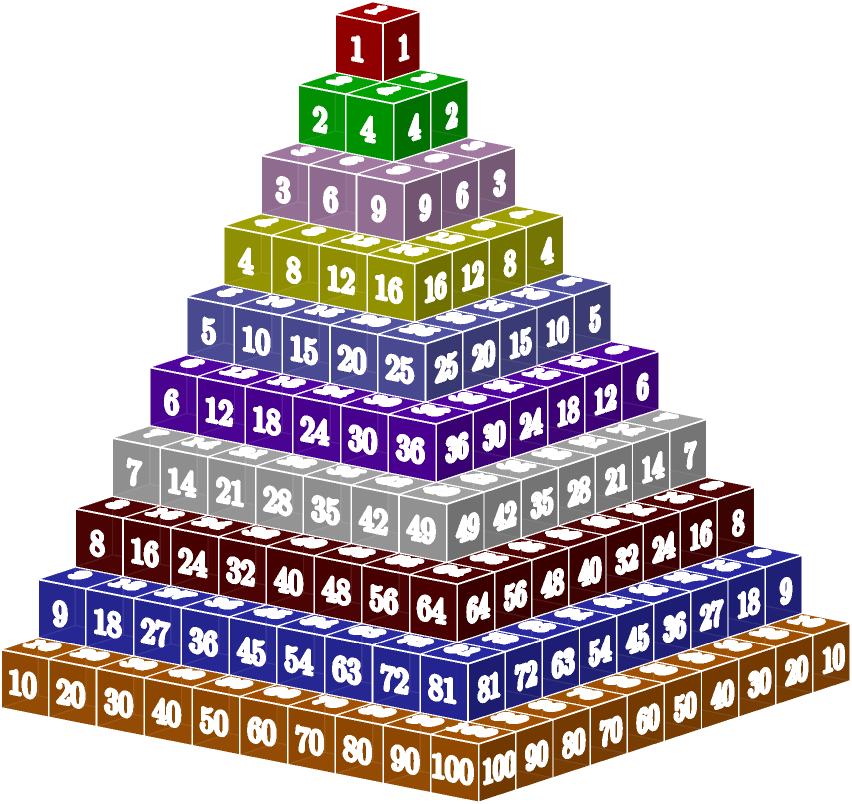
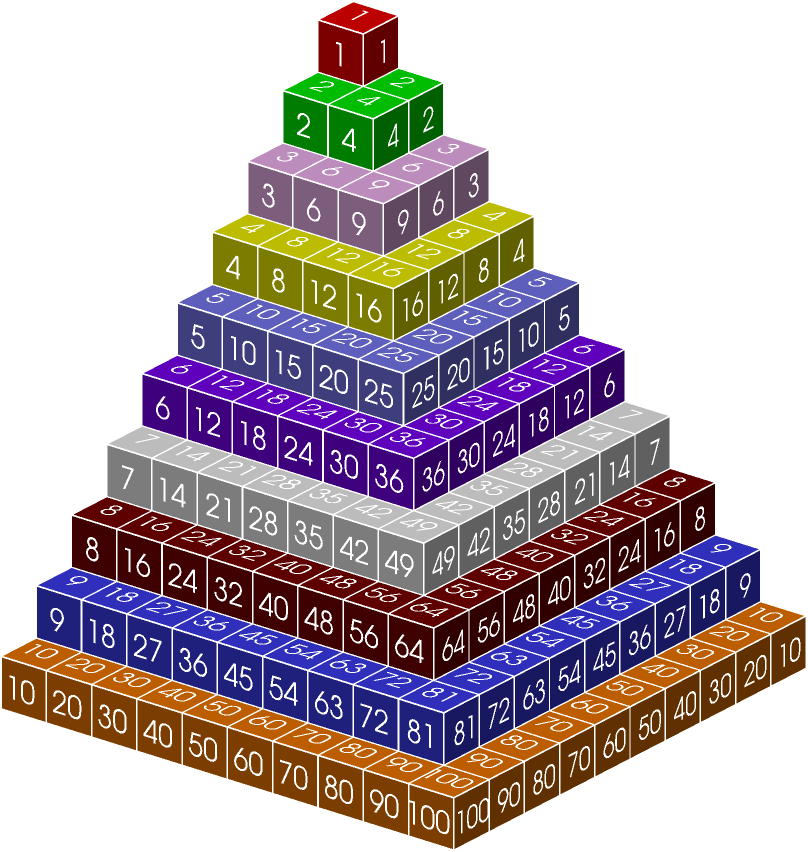
Change numbers and separate planes in multiplication table

diff --git a/_posts/2021-01-23-multiplication.md b/_posts/2021-01-23-multiplication.md
@@ -16,18 +16,23 @@ present below an asymptote code that produces a partial multiplication
 table, step by step, forming a nice pyramid, using the Montessori
 color scheme for the floors.
 
+    //texpreamble("\usepackage{mathptmx}");
+    //texpreamble("\usepackage{helvet}");
+    //texpreamble("\usepackage{avant}");
     import three;
-    currentprojection=orthographic(5,4,2,center=true);
-    currentlight=(0,10,20);
+    currentprojection=orthographic(5,4,3,center=true);
+    currentlight=light(background=white,specularfactor=0,specular=white,(0,10,20));
     size(30cm);
+    defaultpen(AvantGarde());
     //size3(6cm,5cm,8cm);
     pen c[] ={black, red, green, pink, yellow, lightblue, purple, white, brown, mediumblue, orange};
+    defaultpen(AvantGarde());
     int N=10;
     real f=1/N;
     for(int i=N; i>0; --i){
       for(int j=0;j<i;++j){
-        draw(scale3(f)*shift(j,i-1,N-i)*unitcube, c[i]+opacity(0.9));
-        draw(scale3(f)*shift(i-1,j,N-i)*unitcube, c[i]+opacity(0.9));
+        draw(scale3(f)*shift(j,i-1,N-i)*unitcube, c[i]);
+        draw(scale3(f)*shift(i-1,j,N-i)*unitcube, c[i]);
       }
     }
     for(int i=N; i>0; --i){
@@ -40,25 +45,92 @@ color scheme for the floors.
       for(int j=0;j<i;++j){
         draw(scale3(f)*shift(.5,.5,1.05)*shift(i-1,j,N-i)
     	 *scale3(.05)*rotate(90,Z)
-    	 *path3(texpath("$"+(string)(i*(j+1))+"$"), XYplane),
-          white+linewidth(4));
+    	 *surface(texpath((string)(i*(j+1)))),
+    	 white, nolight);
         draw(scale3(f)*shift(.5,.5,1.05)*shift(j,i-1,N-i)
     	 *scale3(.05)*rotate(90,Z)
-    	 *path3(texpath("$"+(string)(i*(j+1))+"$"), XYplane),
-    	 white+linewidth(4));
+    	 *surface(texpath((string)(i*(j+1)))),
+    	 white, nolight);
         draw(scale3(f)*shift(1.05,.5,0.5)*shift(i-1,j,N-i)
     	 *scale3(.05)*rotate(90,Y)*rotate(90,Z)
-    	 *path3(texpath("$"+(string)(i*(j+1))+"$"), XYplane),
-    	 white+linewidth(4));
+    	 *surface(texpath((string)(i*(j+1)))),
+    	 white, nolight);
         draw(scale3(f)*shift(.5,1.05,0.5)*shift(j,i-1,N-i)
     	 *scale3(.05)*rotate(90,Z)*rotate(90,Y)*rotate(90,3Z)
-    	 *(path3(texpath("$"+(string)(i*(j+1))+"$"), XYplane)),white+linewidth(4));
+    	 *surface(texpath((string)(i*(j+1)))),
+    	 white,nolight);
       }
     }
 
 ![img](../../../../assets/image/multiplication.png)
 
-I had some difficulty with the numbers. I could convert numbers to
-paths, to 3D paths and then to surfaces, but when I drew them
-asymptote filled the holes. Thus, I traced the outlines with a thick
-pen. There must be a better way though.
+The following code separates vertically the planes so you can peek
+beneath them. The problem is that drawing so many cubes
+(10\*11\*21/6=385) is too much work for Asymptote (the heap is depleted). I could have drawn
+each plane as a square prism, but I just added a second row to each plane.
+
+    //texpreamble("\usepackage{mathptmx}");
+    //texpreamble("\usepackage{helvet}");
+    //texpreamble("\usepackage{avant}");
+    import three;
+    currentprojection=orthographic(5,4,3,center=true);
+    currentlight=light(background=white,specularfactor=0,specular=white,(0,10,20));
+    size(30cm);
+    defaultpen(AvantGarde());
+    //size3(6cm,5cm,8cm);
+    pen c[] ={black, red, green, pink, yellow, lightblue, purple, white, brown, mediumblue, orange};
+    defaultpen(AvantGarde());
+    int N=10;
+    real f=1/N;
+    for(int i=N; i>0; --i){
+      for(int j=0;j<i;++j){
+        draw(scale3(f)*shift(j,i-1,(N-i)*1.45)*unitcube, c[i]);
+        draw(scale3(f)*shift(i-1,j,(N-i)*1.45)*unitcube, c[i]);
+        if(i>1){
+          draw(scale3(f)*shift(j,i-2,(N-i)*1.45)*unitcube, c[i]);
+          draw(scale3(f)*shift(i-2,j,(N-i)*1.45)*unitcube, c[i]);
+        }
+      }
+    }
+    for(int i=N; i>0; --i){
+      for(int j=0;j<i;++j){
+        draw(scale3(f)*shift(i-1,j,(N-i)*1.45)*unitbox, white+linewidth(2));
+        draw(scale3(f)*shift(j,i-1,(N-i)*1.45)*unitbox, white+linewidth(2));
+        if(i>1){
+          draw(scale3(f)*shift(i-2,j,(N-i)*1.45)*unitbox, white+linewidth(2));
+          draw(scale3(f)*shift(j,i-2,(N-i)*1.45)*unitbox, white+linewidth(2));
+        }
+      }
+    }
+    for(int i=N; i>0; --i){
+      for(int j=0;j<i;++j){
+        draw(scale3(f)*shift(.5,.5,1.05)*shift(i-1,j,(N-i)*1.45)
+    	 *scale3(.05)*rotate(90,Z)
+    	 *surface(texpath((string)(i*(j+1)))),
+    	 white, nolight);
+        draw(scale3(f)*shift(.5,.5,1.05)*shift(j,i-1,(N-i)*1.45)
+    	 *scale3(.05)*rotate(90,Z)
+    	 *surface(texpath((string)(i*(j+1)))),
+    	 white, nolight);
+        draw(scale3(f)*shift(1.05,.5,0.5)*shift(i-1,j,(N-i)*1.45)
+    	 *scale3(.05)*rotate(90,Y)*rotate(90,Z)
+    	 *surface(texpath((string)(i*(j+1)))),
+    	 white, nolight);
+        draw(scale3(f)*shift(.5,1.05,0.5)*shift(j,i-1,(N-i)*1.45)
+    	 *scale3(.05)*rotate(90,Z)*rotate(90,Y)*rotate(90,3Z)
+    	 *surface(texpath((string)(i*(j+1)))),
+    	 white,nolight);
+        if(i>1){
+          draw(scale3(f)*shift(.5,.5,1.05)*shift(i-2,j,(N-i)*1.45)
+    	   *scale3(.05)*rotate(90,Z)
+    	   *surface(texpath((string)((i-1)*(j+1)))),
+    	   white, nolight);
+          draw(scale3(f)*shift(.5,.5,1.05)*shift(j,i-2,(N-i)*1.45)
+    	   *scale3(.05)*rotate(90,Z)
+    	   *surface(texpath((string)((i-1)*(j+1)))),
+    	   white, nolight);
+        }
+      }
+    }
+
+![img](../../../../assets/image/multiplicationSeparated.png)
